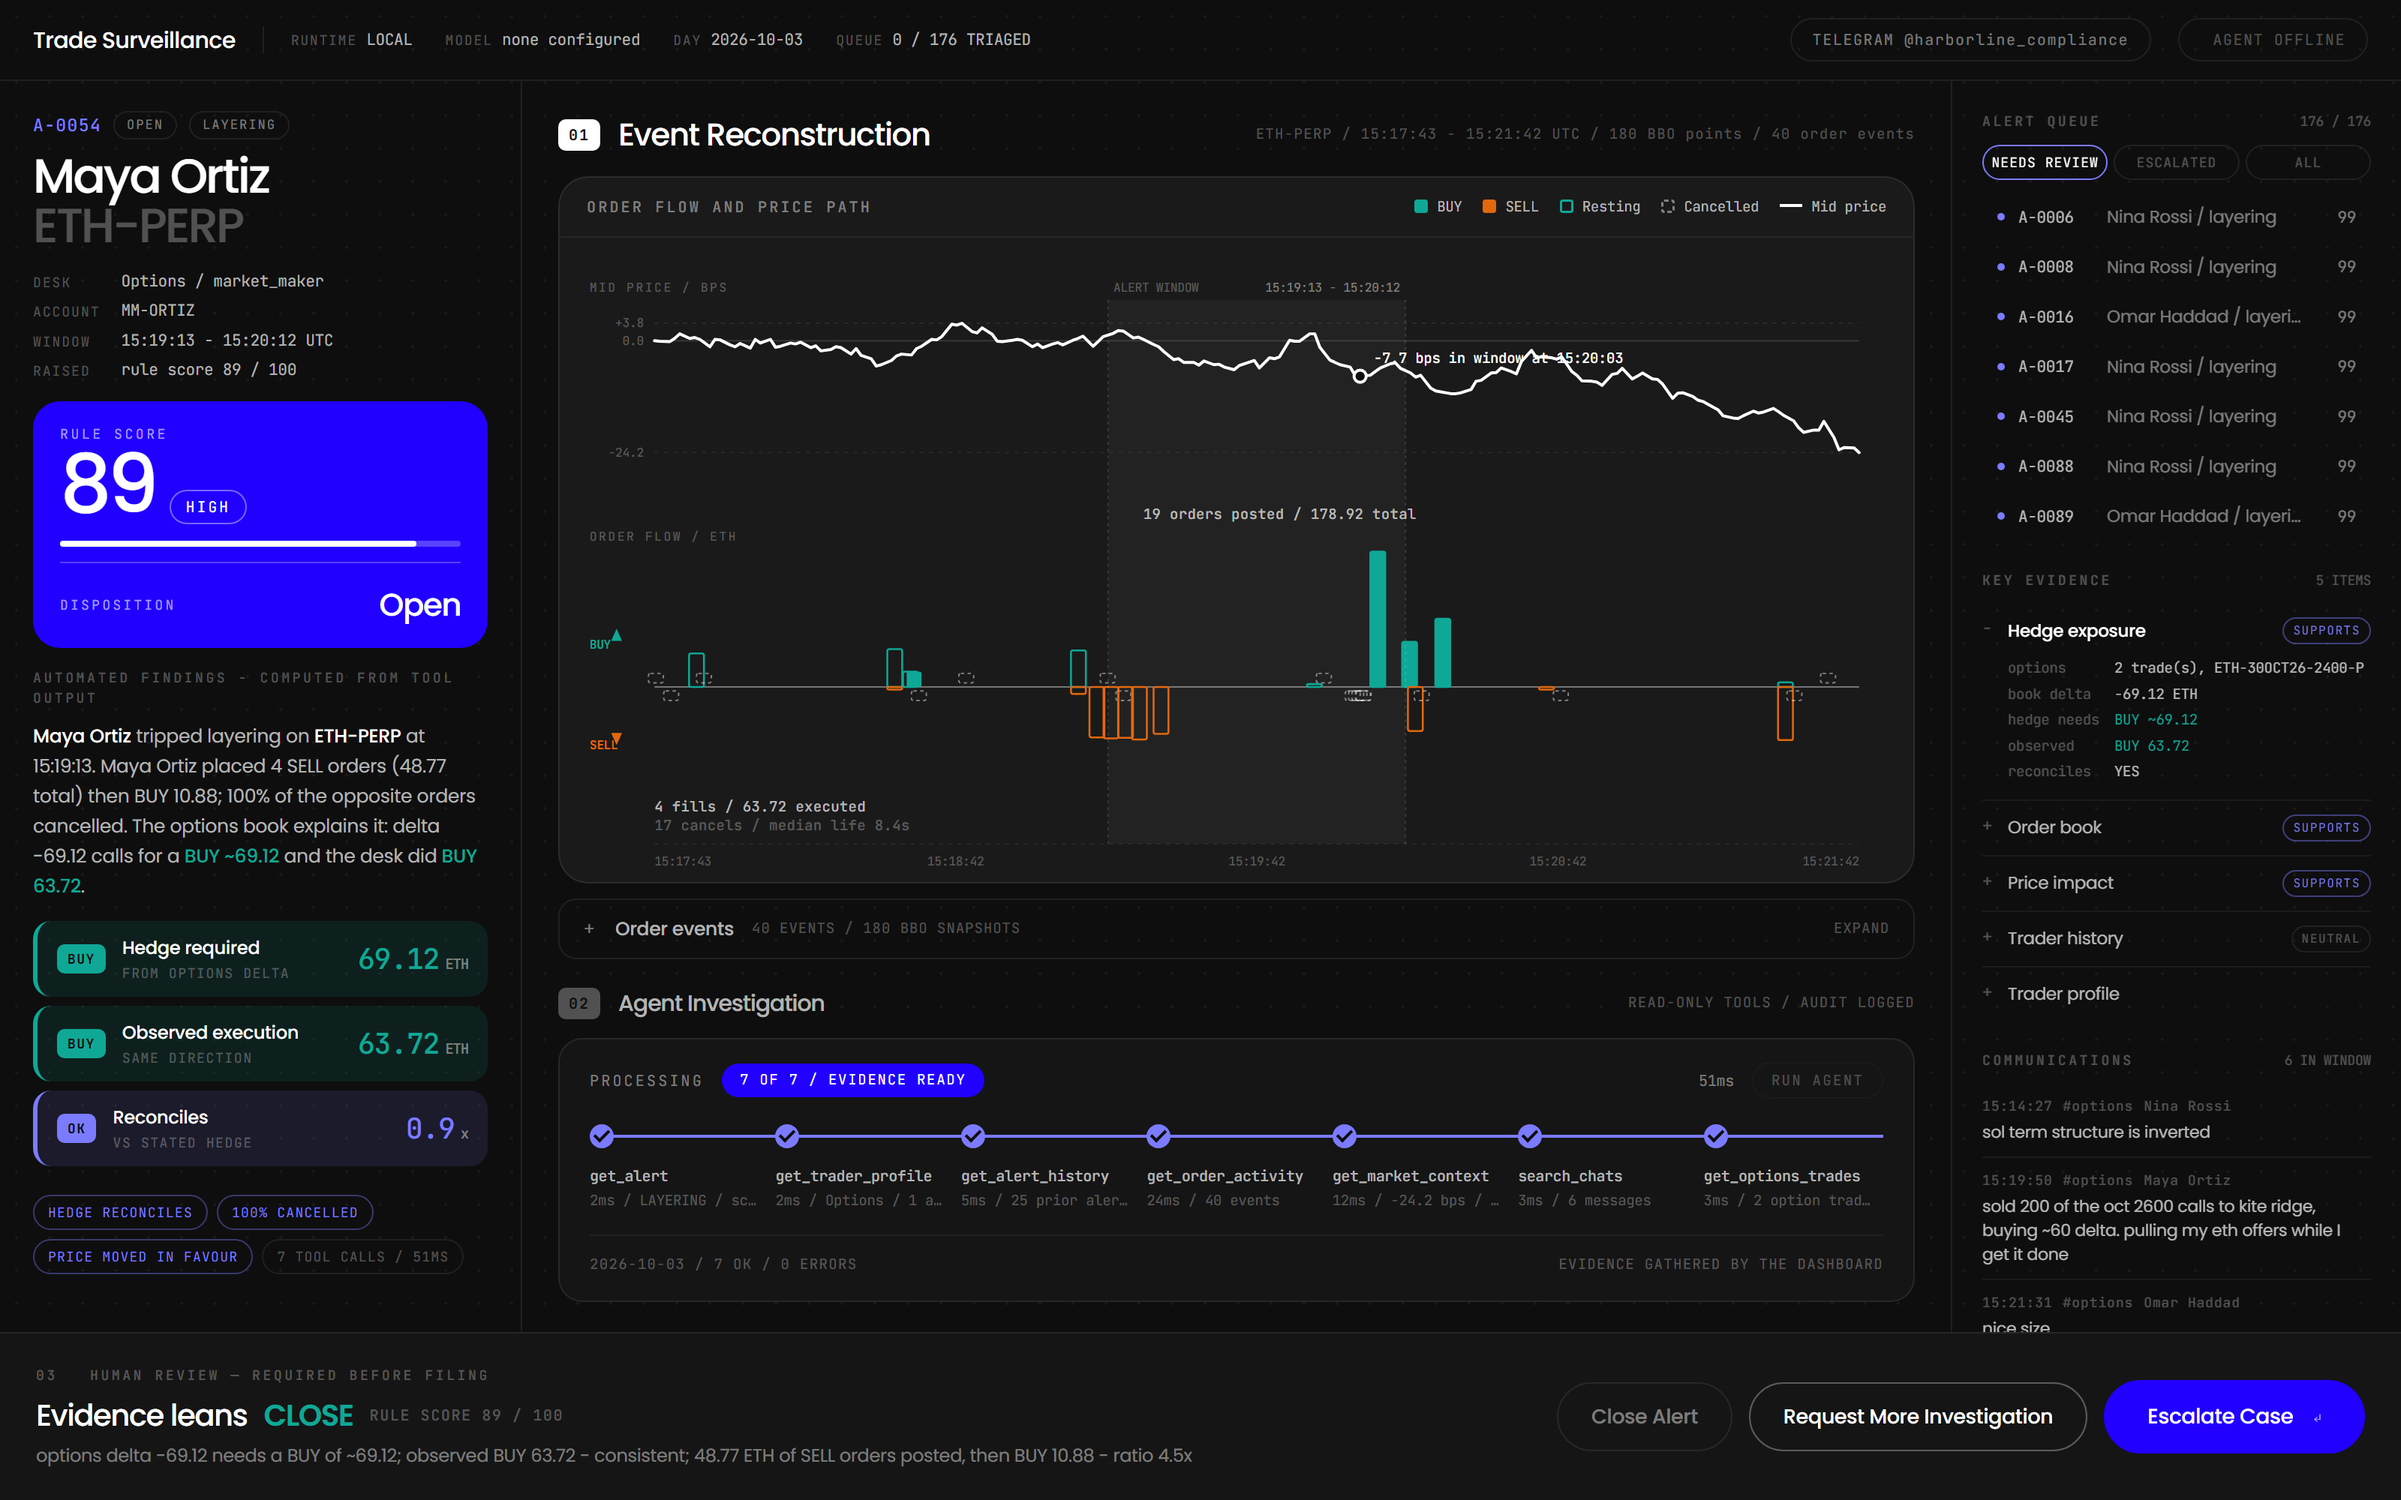
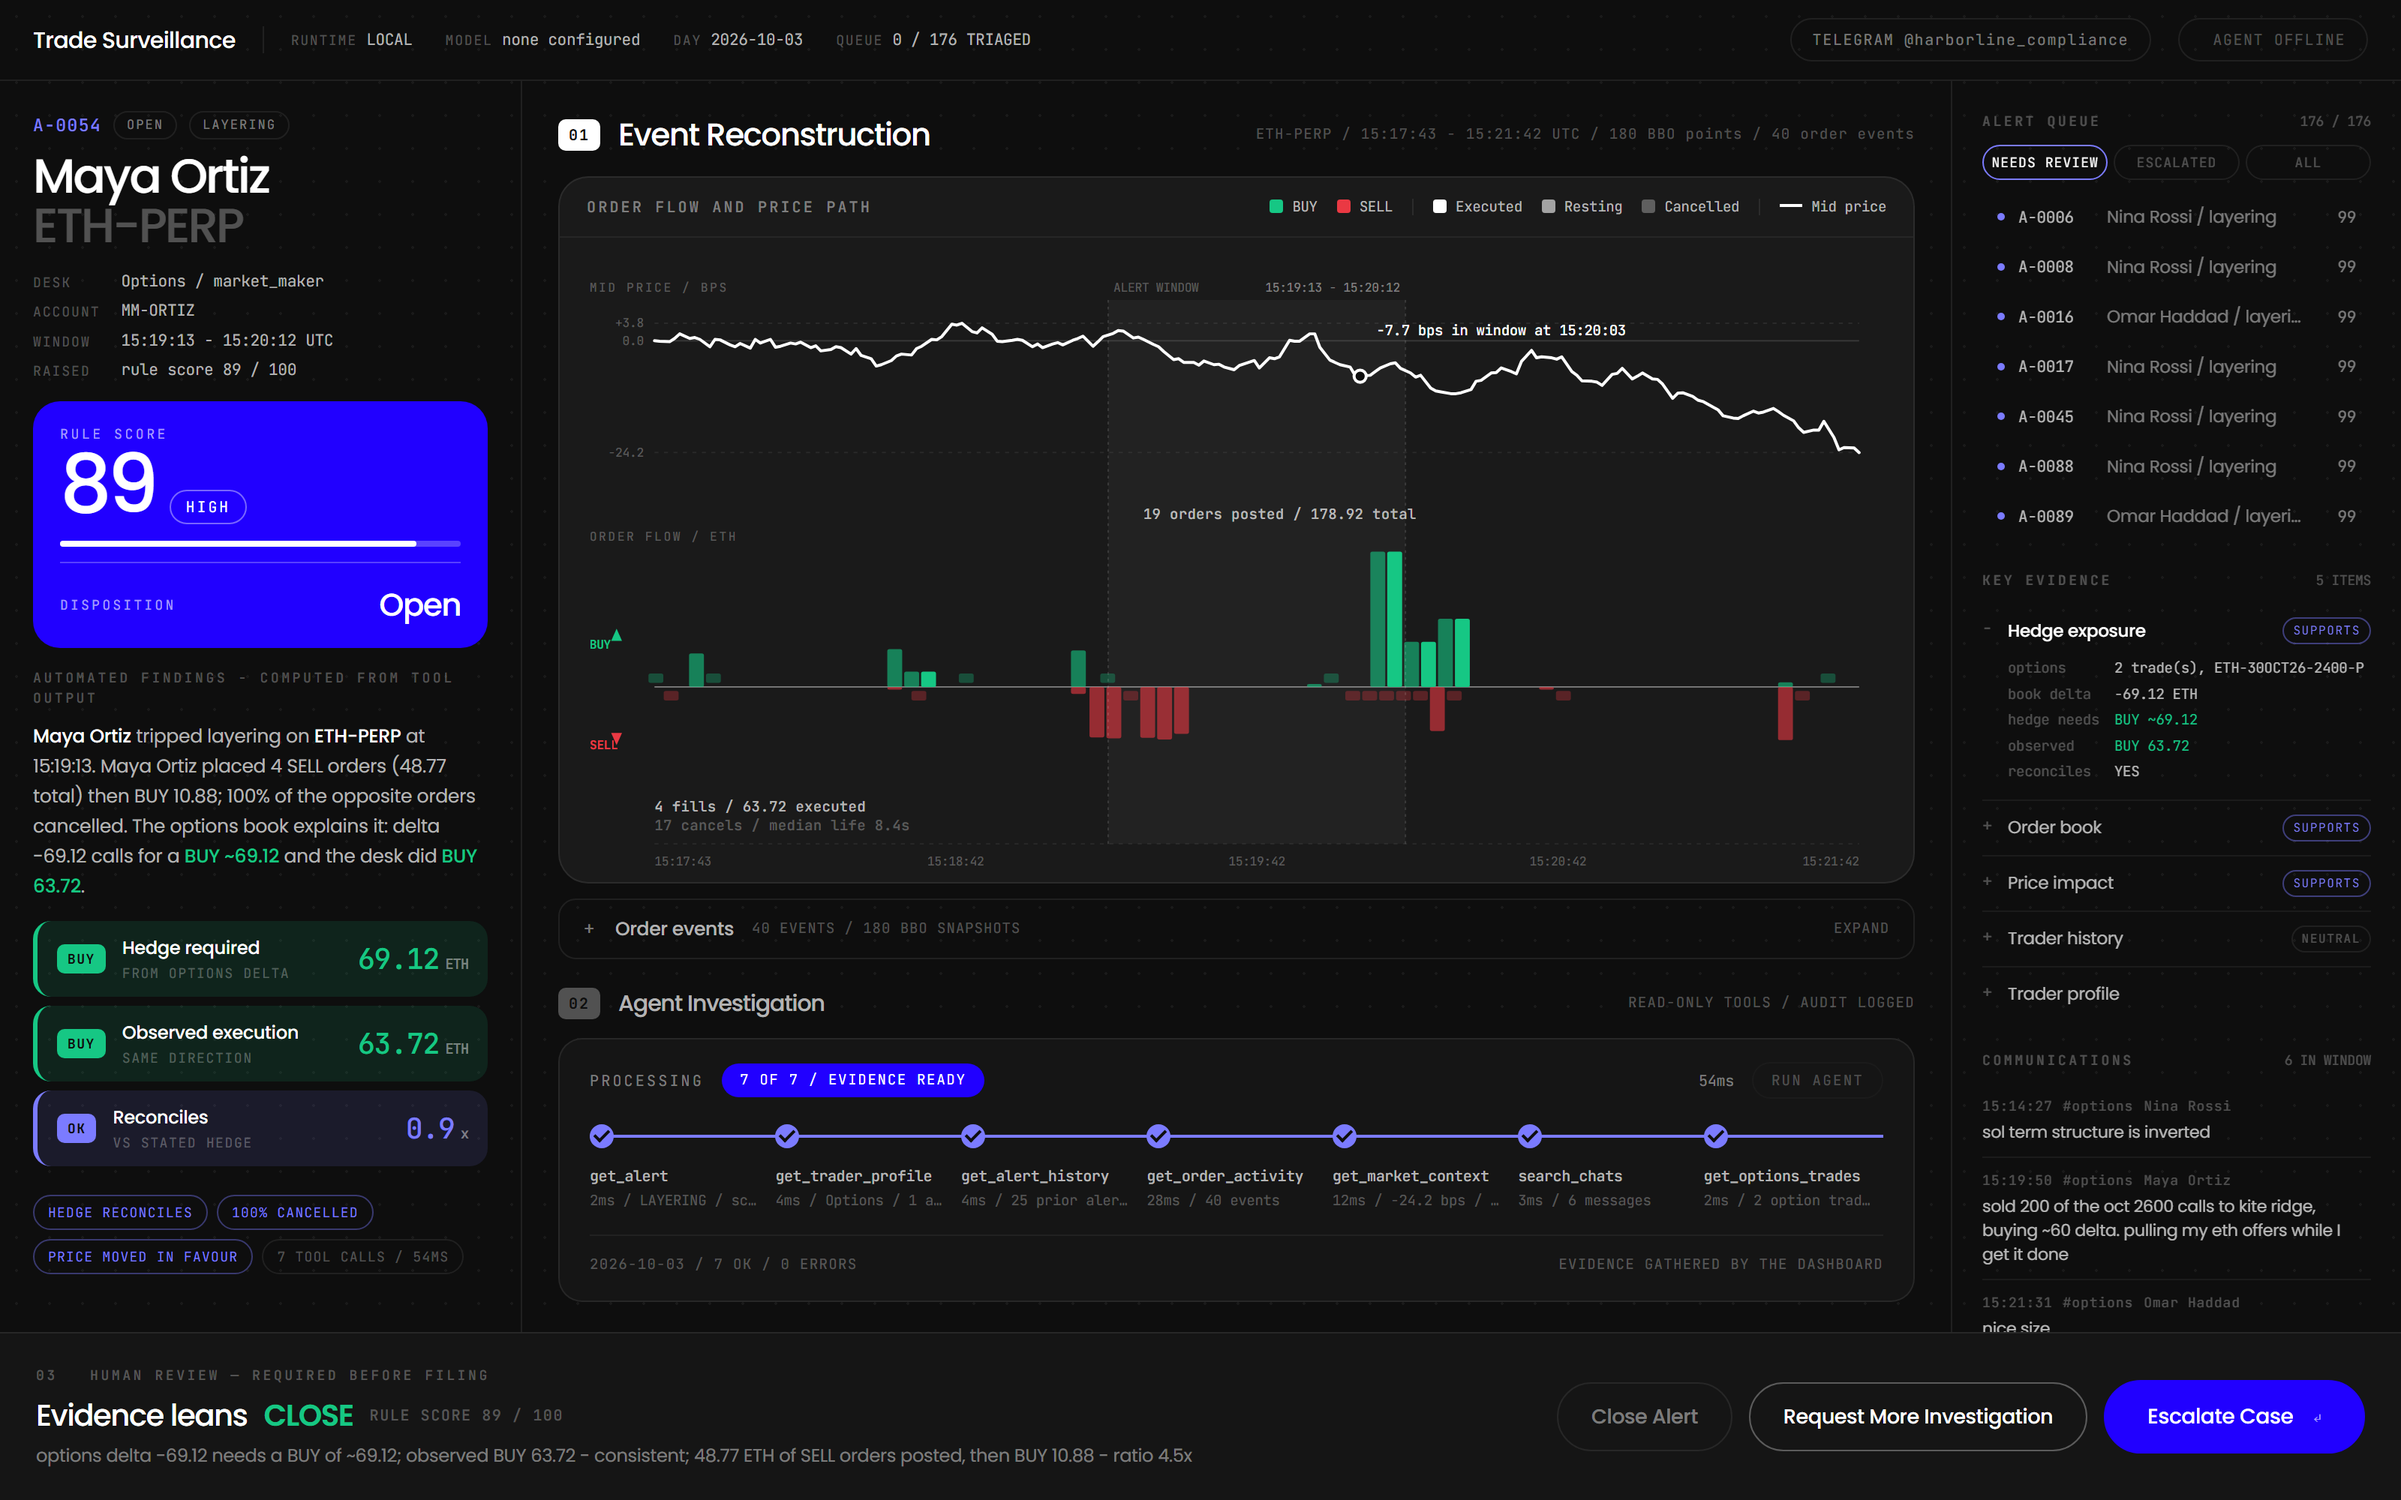
Chart: red/green buy/sell, solid bars, no overlapping marks
- Buy/sell go back to red/green at #16C784 / #EA3943. Of the true red/green
  pairs this is the only one that clears the colourblind separation gate on the
  dark surface (deutan dE 11.2 against a target of 8; the previous green/red
  measured 6.7). Direction still carries a second encoding - BUY above the zero
  axis, SELL below - so the chart survives without hue.
- Bars are solid. Order state moves to opacity: executed 100%, resting 60%,
  cancelled 30%. Hue and opacity are now independent channels, and the legend
  shows each once instead of repeating the same green swatch.
- Marks no longer overlap. Events seconds apart landed on the same pixel and
  read as one order; each side now lays its marks out in time order, pushing
  each one right until it clears the previous, shrinking the bar width and
  pulling the group back when a dense cluster would run off the plot.
- The bps callout clears the price curve across the label's whole width, not
  just at the point it marks - the deepest part of a dip is often beside it.

diff --git a/web/style.css b/web/style.css
@@ -4,7 +4,7 @@
 :root{
   --base:#0E0E0E; --panel:#151515; --hero:#1A1A1A;
   --blu:#2100FF; --blu-lt:#7B7BFF;
-  --buy:#0FA896; --sell:#E2680E;
+  --buy:#16C784; --sell:#EA3943;
   --w:#FFFFFF; --w70:rgba(255,255,255,.70); --w45:rgba(255,255,255,.45); --w28:rgba(255,255,255,.28);
   --hair:rgba(255,255,255,.08); --hair2:rgba(255,255,255,.055);
   --sans:"Poppins","Mark Pro",system-ui,"Segoe UI",sans-serif;
@@ -27,8 +27,8 @@ button{font-family:inherit;cursor:pointer}
 .tmeta s{text-decoration:none;color:var(--w28);letter-spacing:.1em;font-size:9px}
 .pill{display:flex;align-items:center;gap:8px;font-family:var(--mono);font-size:10px;letter-spacing:.08em;
   border:1px solid var(--hair);border-radius:100px;padding:6px 14px;color:var(--w45);white-space:nowrap}
-.pill.live{border-color:rgba(15,168,150,.50);color:var(--buy)}
-.pill.live .d{width:6px;height:6px;border-radius:50%;background:var(--buy);box-shadow:0 0 0 3px rgba(15,168,150,.20)}
+.pill.live{border-color:rgba(22,199,132,.50);color:var(--buy)}
+.pill.live .d{width:6px;height:6px;border-radius:50%;background:var(--buy);box-shadow:0 0 0 3px rgba(22,199,132,.20)}
 .pill.off{border-color:var(--hair);color:var(--w28)}
 .pill.off .d{background:var(--w28);box-shadow:none}
 
@@ -79,8 +79,8 @@ button{font-family:inherit;cursor:pointer}
   text-transform:uppercase;white-space:nowrap;overflow:hidden;text-overflow:ellipsis}
 .mrow .v{font-family:var(--mono);font-size:19px;font-weight:500;letter-spacing:-.03em;white-space:nowrap}
 .mrow .v u{text-decoration:none;font-size:9.5px;color:var(--w45);margin-left:4px}
-.mrow.buy{border-left-color:var(--buy);background:rgba(15,168,150,.12)} .mrow.buy .v{color:var(--buy)}
-.mrow.sell{border-left-color:var(--sell);background:rgba(226,104,14,.12)} .mrow.sell .v{color:var(--sell)}
+.mrow.buy{border-left-color:var(--buy);background:rgba(22,199,132,.12)} .mrow.buy .v{color:var(--buy)}
+.mrow.sell{border-left-color:var(--sell);background:rgba(234,57,67,.12)} .mrow.sell .v{color:var(--sell)}
 .mrow.dev{border-left-color:var(--blu-lt);background:rgba(123,123,255,.12)} .mrow.dev .v{color:var(--blu-lt)}
 .tagsq{font-family:var(--mono);font-size:9px;font-weight:700;letter-spacing:.08em;padding:3px 7px;border-radius:5px;color:#0E0E0E}
 .tagsq.b{background:var(--buy)} .tagsq.s{background:var(--sell)} .tagsq.d{background:var(--blu-lt)}
@@ -103,10 +103,12 @@ button{font-family:inherit;cursor:pointer}
 .chart-h{display:flex;align-items:center;justify-content:space-between;gap:16px;padding:12px 18px;
   border-bottom:1px solid var(--hair2)}
 .chart-h .t{font-family:var(--mono);font-size:10px;font-weight:500;letter-spacing:.16em;color:var(--w45)}
-.leg{display:flex;gap:14px;font-family:var(--mono);font-size:9.5px;color:var(--w70);align-items:center;flex-wrap:wrap}
+.leg{display:flex;gap:13px;font-family:var(--mono);font-size:9.5px;color:var(--w70);align-items:center;flex-wrap:wrap}
 .leg i{display:inline-block;width:9px;height:9px;border-radius:2px;margin-right:6px;vertical-align:-1px}
 .leg .bu{background:var(--buy)} .leg .se{background:var(--sell)}
-.leg .ho{border:1.5px solid var(--buy)} .leg .ca{border:1.5px dashed var(--w45)}
+/* hue = direction, opacity = order state: two channels, each shown once */
+.leg .s1{background:#fff} .leg .s2{background:#fff;opacity:.6} .leg .s3{background:#fff;opacity:.3}
+.leg .sep{width:1px;height:11px;background:var(--hair);display:inline-block}
 .leg .pr{width:15px;height:0;border-top:2px solid var(--w);border-radius:0;vertical-align:3px}
 .chart-body{position:relative}
 #chart{display:block;width:100%;height:auto}
@@ -193,7 +195,7 @@ table.evt td.r{text-align:right}
 .acc[open] .tt b{color:#fff;font-weight:500}
 .acc .fl{font-family:var(--mono);font-size:8px;letter-spacing:.1em;padding:2px 6px;border-radius:100px;
   border:1px solid var(--hair);color:var(--w28);white-space:nowrap}
-.acc .fl.contradicts{border-color:rgba(226,104,14,.55);color:var(--sell)}
+.acc .fl.contradicts{border-color:rgba(234,57,67,.55);color:var(--sell)}
 .acc .fl.supports{border-color:rgba(123,123,255,.45);color:var(--blu-lt)}
 .acc .bd{padding:0 0 11px 17px}
 .acc .kv{display:grid;grid-template-columns:auto 1fr;gap:3px 10px;font-family:var(--mono);font-size:9.5px}
@@ -272,11 +274,12 @@ table.evt td.r{text-align:right}
 #chart .price{fill:none;stroke:#fff;stroke-width:2.2;stroke-linejoin:round;stroke-linecap:round}
 #chart .dot{fill:var(--base);stroke:#fff;stroke-width:2.2}
 #chart .cross{stroke:var(--blu-lt);stroke-width:1;stroke-dasharray:3 3}
-#chart .bar.buy{fill:var(--buy);stroke:var(--buy)}
-#chart .bar.sell{fill:var(--sell);stroke:var(--sell)}
-#chart .bar.new{fill:transparent;stroke-width:1.4}
-#chart .bar.cancel{fill:transparent;stroke:var(--w45);stroke-width:1.1;stroke-dasharray:2.5 2.5}
-#chart .bar.fill{stroke:none}
+#chart .bar{stroke:none}
+#chart .bar.buy{fill:var(--buy)}
+#chart .bar.sell{fill:var(--sell)}
+#chart .bar.fill{fill-opacity:1}        /* executed - the loudest mark */
+#chart .bar.new{fill-opacity:.6}        /* resting  - posted, not yet done */
+#chart .bar.cancel{fill-opacity:.3}     /* cancelled - a stub at the axis */
 
 /* the hidden attribute must beat the layout displays above */
 [hidden]{display:none !important}

diff --git a/web/app.js b/web/app.js
@@ -312,8 +312,15 @@ function drawChart(c) {
   const inWin = bps.filter((p) => secs(p.t) >= secs(w.alert_start) && secs(p.t) <= secs(w.alert_end));
   const ext = (inWin.length ? inWin : bps).reduce((a, b) => Math.abs(b.v) > Math.abs(a.v) ? b : a, (inWin[0] || bps[0]));
   node.append(svg('circle', { cx: X(ext.t), cy: YA(ext.v), r: 4.5, class: 'dot' }));
-  const lx = X(ext.t) > 760 ? X(ext.t) - 170 : X(ext.t) + 10;
-  node.append(svg('text', { x: lx, y: YA(ext.v) - 10, class: 'note' },
+  /* Clear the label of the curve along its whole width, not just at the marked
+     point - the deepest part of the dip is often a little to one side. */
+  const lx = X(ext.t) > 760 ? X(ext.t) - 172 : X(ext.t) + 12;
+  const under = bps.filter((p) => X(p.t) >= lx - 8 && X(p.t) <= lx + 178).map((p) => YA(p.v));
+  under.push(YA(ext.v));
+  const below = ext.v < (lo + hi) / 2;
+  const ly = Math.max(PLOT.aTop + 9, Math.min(PLOT.aBot + 24,
+    below ? Math.max(...under) + 17 : Math.min(...under) - 11));
+  node.append(svg('text', { x: lx, y: ly, class: 'note' },
     `${ext.v > 0 ? '+' : ''}${ext.v.toFixed(1)} bps in window at ${ext.t.slice(0, 8)}`));
 
   /* ---- lane B: order flow, BUY above the axis, SELL below ---- */
@@ -331,12 +338,36 @@ function drawChart(c) {
 
   // NEW and FILL are drawn to scale; a CANCEL is a stub at the axis, so removing
   // liquidity never looks like adding it.
-  ev.forEach((e) => {
-    const up = e.side === 'BUY', x = X(e.t) - bw / 2;
-    const cls = (up ? 'buy' : 'sell') + ' ' + e.event.toLowerCase();
-    const h = e.event === 'CANCEL' ? 7 : H(e.qty);
-    const y = e.event === 'CANCEL' ? (up ? PLOT.zero - h - 3 : PLOT.zero + 3) : (up ? PLOT.zero - h : PLOT.zero);
-    node.append(svg('rect', { x, y, width: bw, height: h, rx: 1.5, class: 'bar ' + cls }));
+  const GAP = 1.5;
+  const marks = ev.map((e) => ({ e, up: e.side === 'BUY', x: X(e.t),
+    h: e.event === 'CANCEL' ? 7 : H(e.qty) }));
+
+  /* Events seconds apart land on the same pixel, so marks are laid out per side:
+     each one keeps its place in time but is pushed right until it clears the
+     previous mark. Bars touch, never overlap - an overlap would read as one order. */
+  ['BUY', 'SELL'].forEach((side) => {
+    const g = marks.filter((m) => m.e.side === side).sort((a, b) => a.x - b.x);
+    if (!g.length) return;
+    const room = PLOT.x1 - PLOT.x0;
+    const w = Math.max(1.5, Math.min(bw, room / g.length - GAP));
+    let right = -Infinity;
+    g.forEach((m) => {
+      m.w = w;
+      m.left = Math.max(m.x - w / 2, right + GAP);
+      right = m.left + w;
+    });
+    const over = right - PLOT.x1;                       // a dense cluster can run off the end
+    if (over > 0) {
+      const span = Math.max(1, right - g[0].left);
+      g.forEach((m) => { m.left -= over * (m.left - g[0].left + m.w) / span; });
+    }
+  });
+
+  marks.forEach((m) => {
+    const y = m.e.event === 'CANCEL' ? (m.up ? PLOT.zero - m.h - 3 : PLOT.zero + 3)
+                                     : (m.up ? PLOT.zero - m.h : PLOT.zero);
+    node.append(svg('rect', { x: m.left, y, width: m.w, height: m.h, rx: Math.min(1.5, m.w / 3),
+      class: 'bar ' + (m.up ? 'buy' : 'sell') + ' ' + m.e.event.toLowerCase() }));
   });
 
   // aggregate call-outs, placed at the centre of mass of each group

diff --git a/web/index.html b/web/index.html
@@ -70,8 +70,11 @@
           <div class="leg">
             <span><i class="bu"></i>BUY</span>
             <span><i class="se"></i>SELL</span>
-            <span><i class="ho"></i>Resting</span>
-            <span><i class="ca"></i>Cancelled</span>
+            <b class="sep"></b>
+            <span><i class="s1"></i>Executed</span>
+            <span><i class="s2"></i>Resting</span>
+            <span><i class="s3"></i>Cancelled</span>
+            <b class="sep"></b>
             <span><i class="pr"></i>Mid price</span>
           </div>
         </div>
